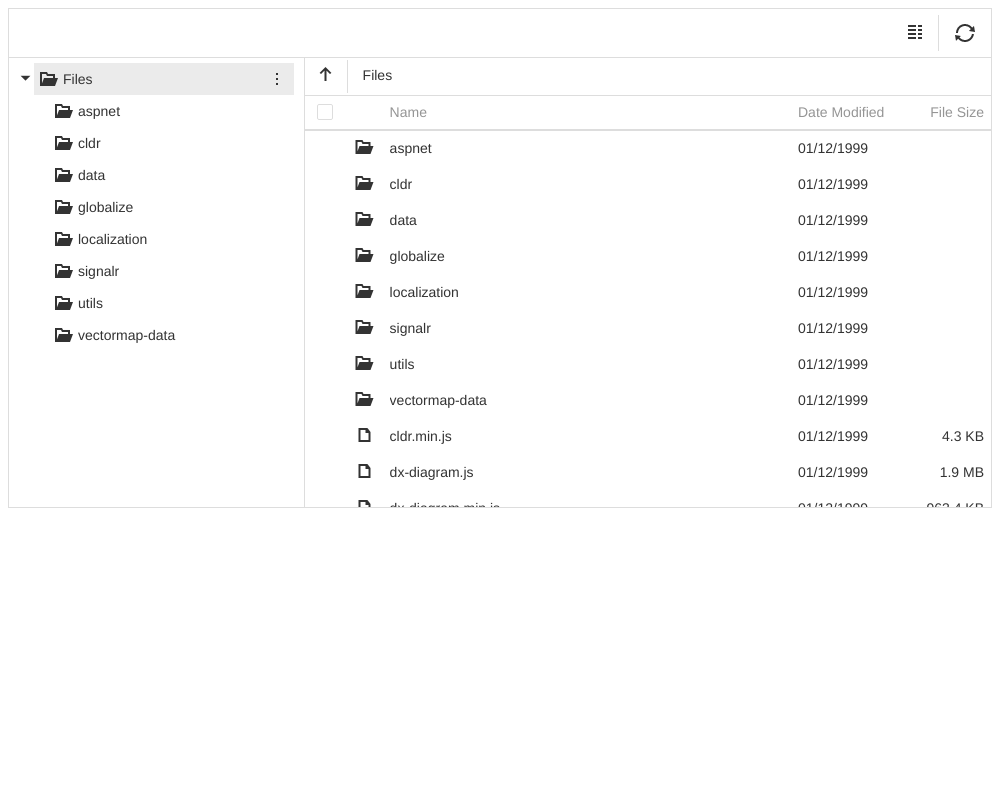
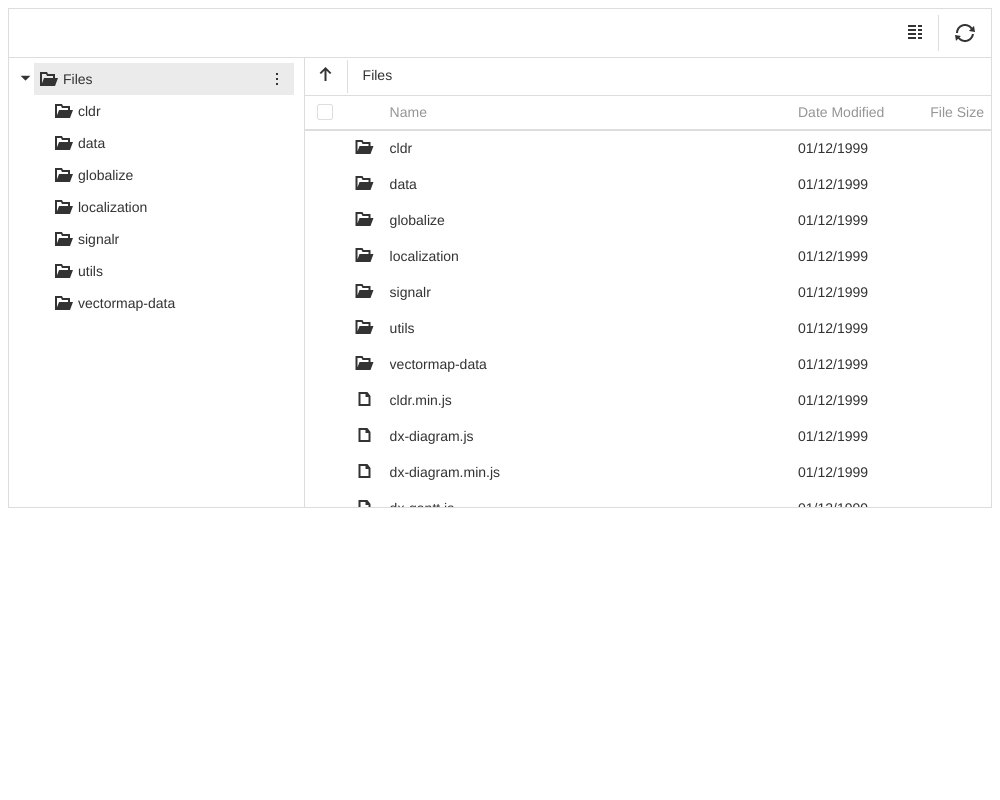
Fix FileManager-BindingToFileSystem vis test (#2313)

diff --git a/JSDemos/Demos/FileManager/BindingToFileSystem/test-code.js b/JSDemos/Demos/FileManager/BindingToFileSystem/test-code.js
@@ -5,4 +5,7 @@ testUtils.postponeUntilFound('td[aria-describedby="dx-col-3"]').then(() => {
   testUtils.findElements('td[aria-describedby="dx-col-3"]').forEach((x) => {
     x.innerText = '01/12/1999';
   });
+  testUtils.findElements('td[aria-describedby="dx-col-4"]').forEach((x) => {
+    x.innerText = '';
+  });
 });
